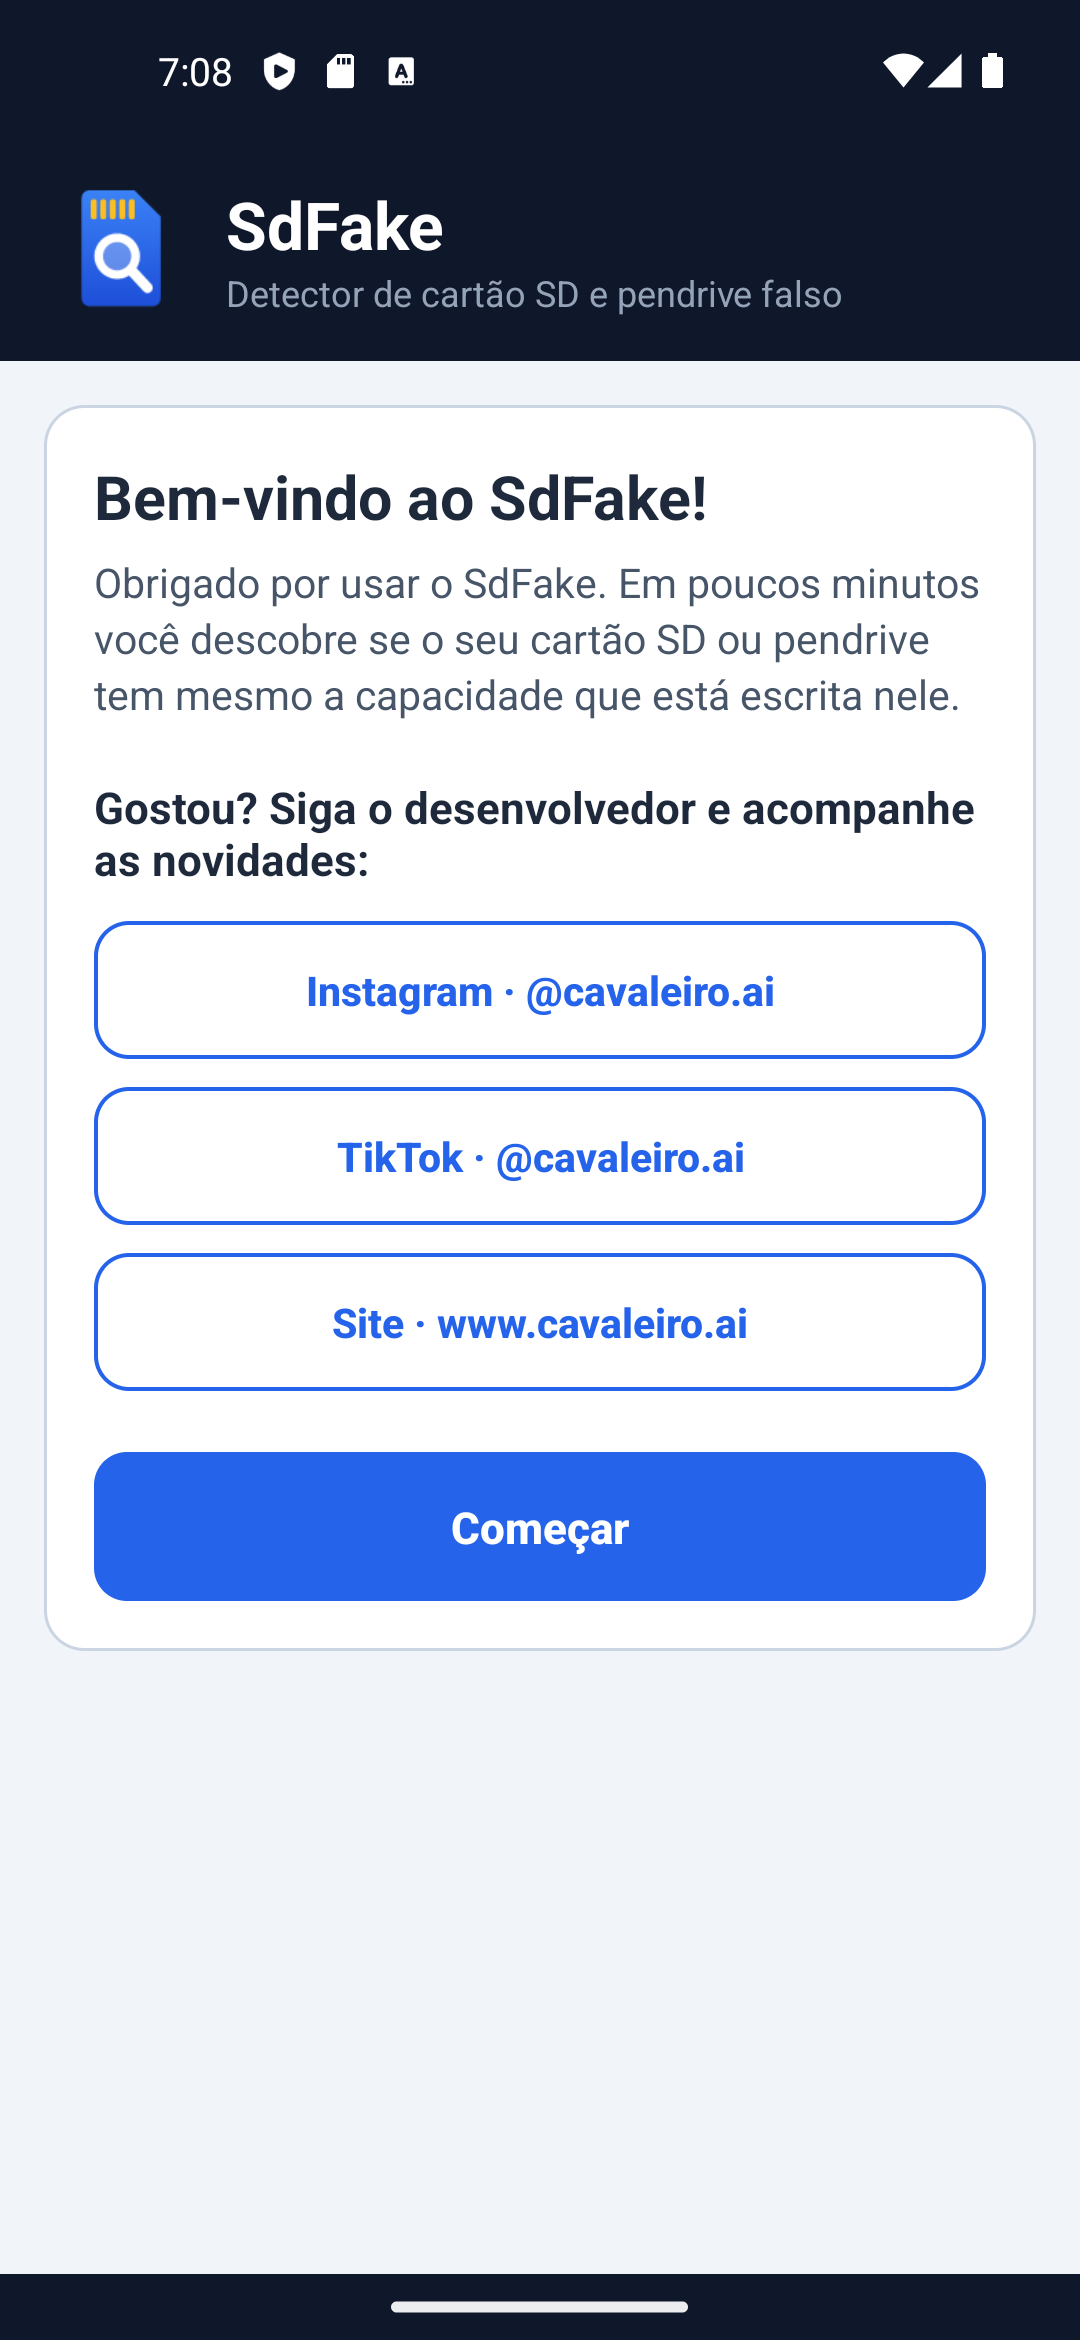
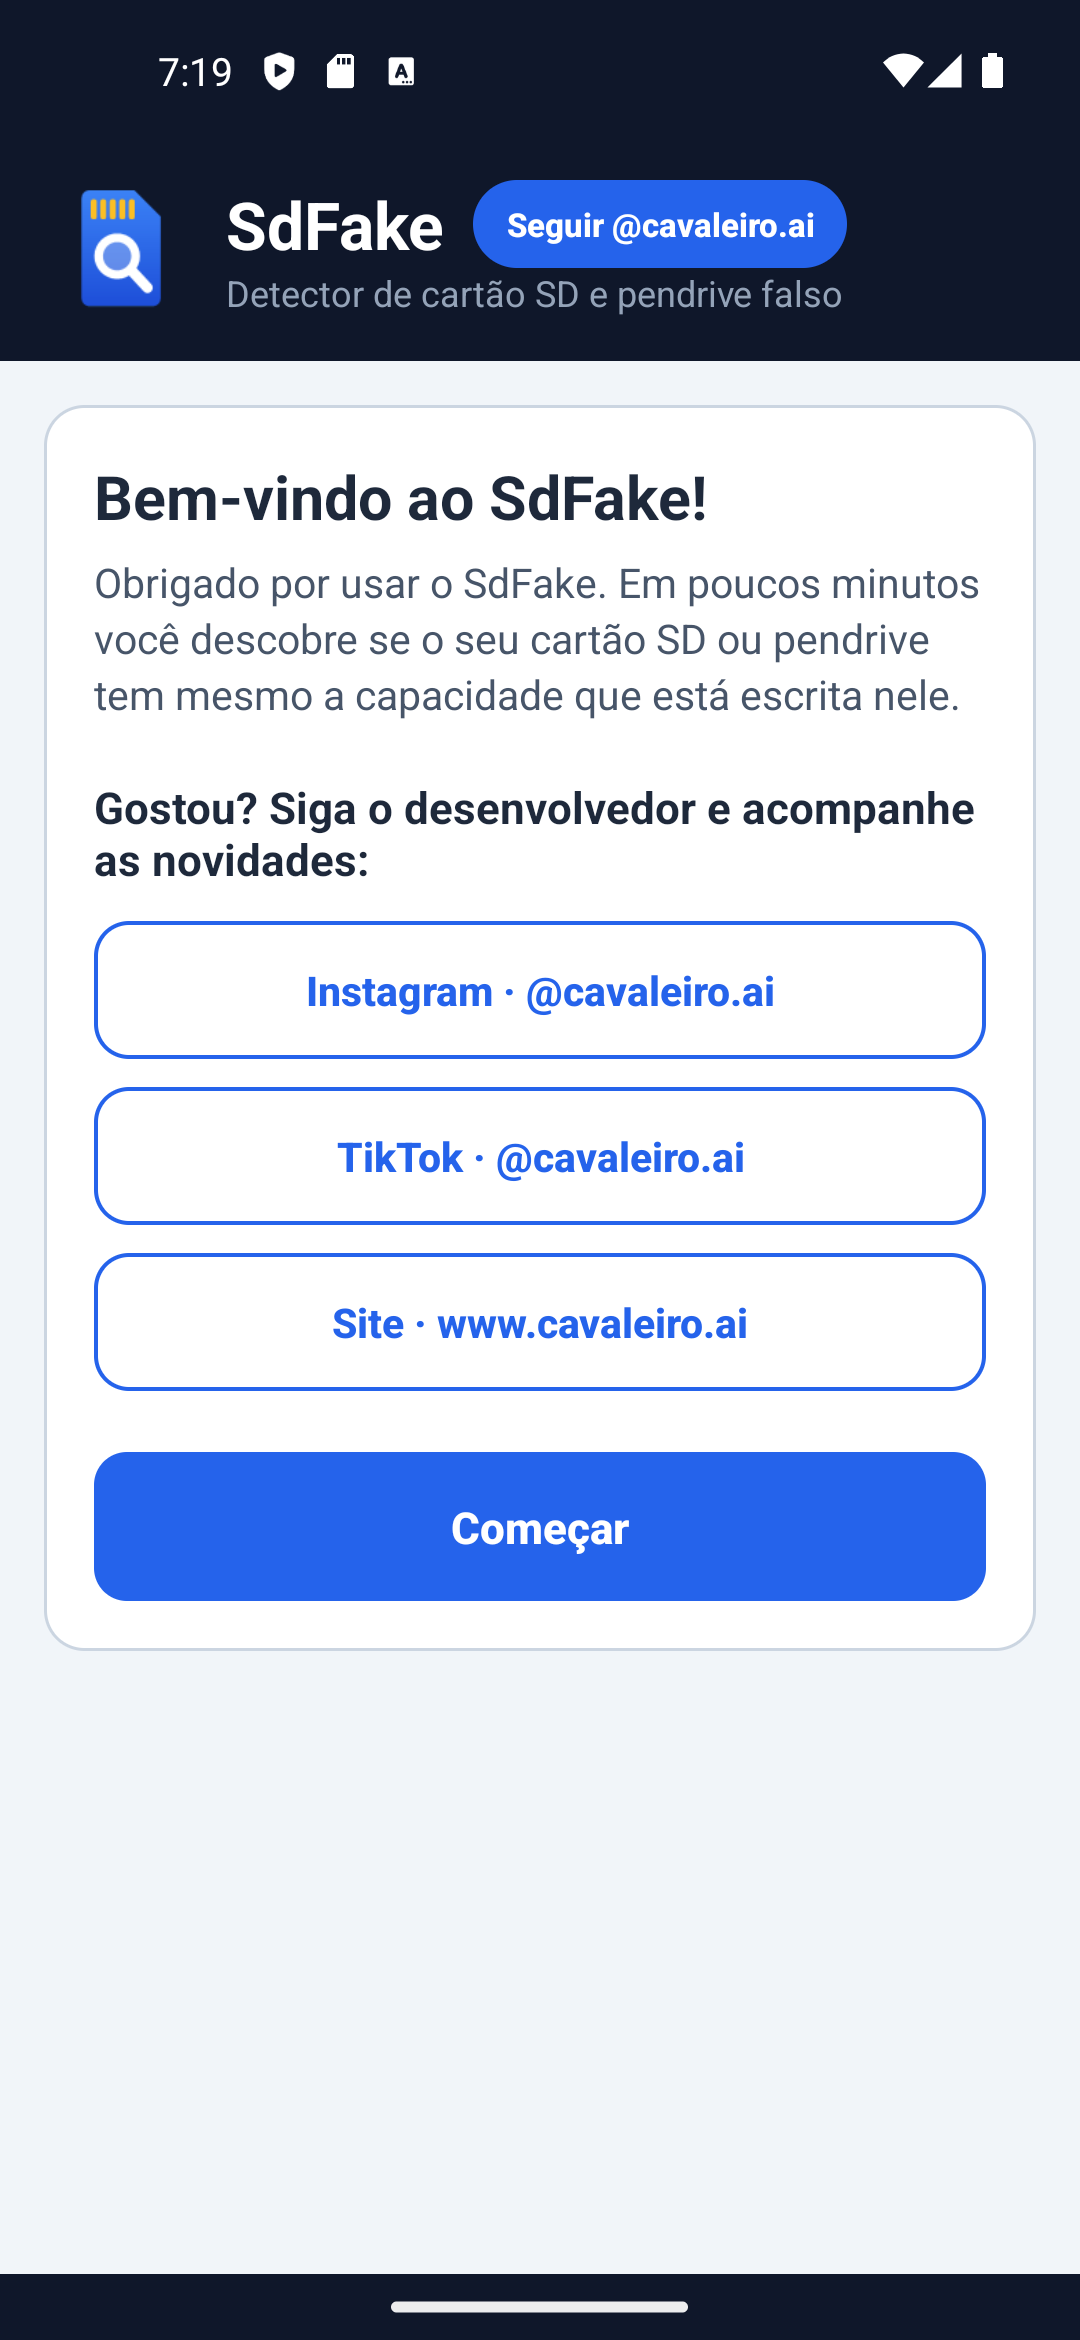
v1.0.1: botão Seguir @cavaleiro.ai ao lado do título (PC e Android)
- PC: botão em forma de pílula no cabeçalho da janela principal; abre um menu
  com Instagram, TikTok e site.
- Android: o mesmo botão no topo do app, com menu.
- Prints refeitos com o botão; novo print do menu aberto (pc-seguir, android-seguir).
- Versão 1.0.1 (versionCode 2).

Changed region(s): [[0.4278, 0.0624, 0.7944, 0.1248], [0.1833, 0.0, 0.2139, 0.0624]]

diff --git a/pc/src/MainForm.cs b/pc/src/MainForm.cs
@@ -142,16 +142,84 @@ namespace SdFake
         }
     }
 
+    /// <summary>Botao em forma de pilula mostrado no cabecalho, ao lado do titulo ("Seguir @cavaleiro.ai").</summary>
+    class FollowButton : Button
+    {
+        bool hover, down;
+
+        public FollowButton()
+        {
+            SetStyle(ControlStyles.UserPaint | ControlStyles.AllPaintingInWmPaint | ControlStyles.OptimizedDoubleBuffer | ControlStyles.ResizeRedraw, true);
+            Cursor = Cursors.Hand;
+            TabStop = false;
+        }
+
+        protected override void OnMouseEnter(EventArgs e) { hover = true; Invalidate(); base.OnMouseEnter(e); }
+        protected override void OnMouseLeave(EventArgs e) { hover = false; down = false; Invalidate(); base.OnMouseLeave(e); }
+        protected override void OnMouseDown(MouseEventArgs e) { down = true; Invalidate(); base.OnMouseDown(e); }
+        protected override void OnMouseUp(MouseEventArgs e) { down = false; Invalidate(); base.OnMouseUp(e); }
+
+        protected override void OnPaint(PaintEventArgs e)
+        {
+            Graphics g = e.Graphics;
+            g.SmoothingMode = SmoothingMode.AntiAlias;
+            g.Clear(Ui.Navy);
+            Color fill = down ? Color.FromArgb(29, 78, 216) : hover ? Color.FromArgb(59, 130, 246) : Ui.Blue;
+            using (GraphicsPath p = Ui.Rounded(new RectangleF(0.5f, 0.5f, Width - 1.5f, Height - 1.5f), (Height - 1.5f) / 2f))
+            using (SolidBrush b = new SolidBrush(fill))
+                g.FillPath(b, p);
+            using (Font f = new Font(Font, FontStyle.Bold))
+                TextRenderer.DrawText(g, Text, f, ClientRectangle, Color.White,
+                    TextFormatFlags.HorizontalCenter | TextFormatFlags.VerticalCenter | TextFormatFlags.NoPrefix);
+        }
+    }
+
     class Header : Control
     {
         public Image Logo;
         public string Title = "SdFake";
         public string Subtitle = "Descubra se o cartão SD ou pendrive tem mesmo a capacidade anunciada";
+        Control side;
+        Size sideSize;
 
         public Header()
         {
             SetStyle(ControlStyles.UserPaint | ControlStyles.AllPaintingInWmPaint | ControlStyles.OptimizedDoubleBuffer | ControlStyles.ResizeRedraw, true);
         }
+
+        // O cabecalho posiciona o proprio filho em pixels (PlaceSide), entao o Windows Forms nao deve escala-lo de novo.
+        protected override bool ScaleChildren { get { return false; } }
+
+        const float TitleSize = 19f;
+
+        int TitleLeft(float s)
+        {
+            return (int)(20 * s) + (Logo != null ? (int)(52 * s) + (int)(14 * s) : 0);
+        }
+
+        /// <summary>Coloca um controle logo depois do titulo (tamanho em pixels a 96 DPI).</summary>
+        public void SetSide(Control control, int width, int height)
+        {
+            side = control;
+            sideSize = new Size(width, height);
+            Controls.Add(control);
+            PlaceSide();
+        }
+
+        void PlaceSide()
+        {
+            if (side == null || Parent == null) return;
+            using (Graphics g = CreateGraphics())
+            using (Font tf = new Font(Font.FontFamily, TitleSize, FontStyle.Bold))
+            {
+                float s = g.DpiX / 96f;
+                int x = TitleLeft(s) + TextRenderer.MeasureText(g, Title, tf, Size.Empty, TextFormatFlags.NoPrefix).Width;
+                side.SetBounds(x + (int)(8 * s), (int)(17 * s), (int)(sideSize.Width * s), (int)(sideSize.Height * s));
+            }
+        }
+
+        protected override void OnResize(EventArgs e) { base.OnResize(e); PlaceSide(); }
+        protected override void OnFontChanged(EventArgs e) { base.OnFontChanged(e); PlaceSide(); }
 
         protected override void OnPaint(PaintEventArgs e)
         {
@@ -166,7 +234,7 @@ namespace SdFake
                 g.DrawImage(Logo, new Rectangle(x, (Height - size) / 2, size, size));
                 x += size + (int)(14 * s);
             }
-            using (Font tf = new Font(Font.FontFamily, 19f, FontStyle.Bold))
+            using (Font tf = new Font(Font.FontFamily, TitleSize, FontStyle.Bold))
                 TextRenderer.DrawText(g, Title, tf, new Point(x - (int)(3 * s), (int)(12 * s)), Color.White, TextFormatFlags.NoPrefix);
             using (Font sf = new Font(Font.FontFamily, 10.5f))
                 TextRenderer.DrawText(g, Subtitle, sf,
@@ -244,6 +312,17 @@ namespace SdFake
             }
             catch (Exception) { }
             Controls.Add(header);
+
+            // botao "Seguir" ao lado do titulo: abre um menu com Instagram, TikTok e site
+            FollowButton follow = new FollowButton();
+            follow.Text = "Seguir " + Developer.Handle;
+            follow.AccessibleName = follow.Text;
+            ContextMenuStrip followMenu = new ContextMenuStrip();
+            followMenu.Items.Add("Instagram  ·  " + Developer.Handle, null, delegate { Developer.Open(this, Developer.InstagramUrl); });
+            followMenu.Items.Add("TikTok  ·  " + Developer.Handle, null, delegate { Developer.Open(this, Developer.TikTokUrl); });
+            followMenu.Items.Add("Site  ·  " + Developer.SiteLabel, null, delegate { Developer.Open(this, Developer.SiteUrl); });
+            follow.Click += delegate { followMenu.Show(follow, new Point(0, follow.Height + 2)); };
+            header.SetSide(follow, 164, 26);
 
             MakeLabel("1.  Escolha o dispositivo", 20, 98, 400, 22, true, Ui.Ink);
             cbDrive = new ComboBox();

diff --git a/android/src/com/sdfake/app/MainActivity.java b/android/src/com/sdfake/app/MainActivity.java
@@ -17,10 +17,12 @@ import android.os.Looper;
 import android.os.storage.StorageManager;
 import android.os.storage.StorageVolume;
 import android.provider.DocumentsContract;
+import android.view.MenuItem;
 import android.view.View;
 import android.view.ViewGroup;
 import android.view.WindowManager;
 import android.widget.Button;
+import android.widget.PopupMenu;
 import android.widget.ProgressBar;
 import android.widget.TextView;
 import android.widget.Toast;
@@ -78,6 +80,7 @@ public final class MainActivity extends Activity {
         cancelButton = findViewById(R.id.cancel);
 
         setupWelcome();
+        setupFollow();
 
         findViewById(R.id.pick).setOnClickListener(new View.OnClickListener() {
             @Override
@@ -127,19 +130,44 @@ public final class MainActivity extends Activity {
         link(R.id.site, R.string.url_site);
     }
 
+    /** Botao "Seguir" no topo, ao lado do titulo: abre um menu com Instagram, TikTok e site. */
+    private void setupFollow() {
+        final int[] labels = {R.string.follow_instagram, R.string.follow_tiktok, R.string.follow_site};
+        final int[] urls = {R.string.url_instagram, R.string.url_tiktok, R.string.url_site};
+        findViewById(R.id.follow).setOnClickListener(new View.OnClickListener() {
+            @Override
+            public void onClick(View v) {
+                PopupMenu menu = new PopupMenu(MainActivity.this, v);
+                for (int i = 0; i < labels.length; i++) menu.getMenu().add(0, i, i, labels[i]);
+                menu.setOnMenuItemClickListener(new PopupMenu.OnMenuItemClickListener() {
+                    @Override
+                    public boolean onMenuItemClick(MenuItem item) {
+                        open(urls[item.getItemId()]);
+                        return true;
+                    }
+                });
+                menu.show();
+            }
+        });
+    }
+
     /** Botao que abre um endereco no app correspondente (Instagram, TikTok) ou no navegador. */
     private void link(int buttonId, final int urlId) {
         findViewById(buttonId).setOnClickListener(new View.OnClickListener() {
             @Override
             public void onClick(View v) {
-                String url = getString(urlId);
-                try {
-                    startActivity(new Intent(Intent.ACTION_VIEW, Uri.parse(url)));
-                } catch (ActivityNotFoundException e) {
-                    Toast.makeText(MainActivity.this, url, Toast.LENGTH_LONG).show();
-                }
+                open(urlId);
             }
         });
+    }
+
+    private void open(int urlId) {
+        String url = getString(urlId);
+        try {
+            startActivity(new Intent(Intent.ACTION_VIEW, Uri.parse(url)));
+        } catch (ActivityNotFoundException e) {
+            Toast.makeText(this, url, Toast.LENGTH_LONG).show();
+        }
     }
 
     @Override

diff --git a/tools/prints/Prints.cs b/tools/prints/Prints.cs
@@ -91,6 +91,51 @@ namespace SdFake
             Console.WriteLine("  " + name);
         }
 
+        /// <summary>
+        /// Clica no botao "Seguir" do cabecalho e fotografa a janela com o menu aberto. O menu e uma janela
+        /// a parte, entao aqui a captura e da tela (so o retangulo da janela, mantida na frente das outras).
+        /// </summary>
+        static void FollowMenu(DriveEntry d, string name)
+        {
+            MainForm f = Open(d);
+            f.TopMost = true;
+            f.Activate();
+            Pump(400);
+            Button follow = null;
+            foreach (Control c in f.Controls)
+                if (c is Header && c.Controls.Count > 0) follow = c.Controls[0] as Button;
+            if (follow == null) throw new Exception("botão Seguir não encontrado no cabeçalho");
+            follow.PerformClick();
+            Pump(600);
+            if (!AnyMenuOpen()) throw new Exception("o menu do botão Seguir não abriu");
+            RECT r;
+            GetWindowRect(f.Handle, out r);
+            using (Bitmap bmp = new Bitmap(r.R - r.L, r.B - r.T))
+            {
+                using (Graphics g = Graphics.FromImage(bmp)) g.CopyFromScreen(r.L, r.T, 0, 0, bmp.Size);
+                bmp.Save(Path.Combine(outDir, name), ImageFormat.Png);
+            }
+            Console.WriteLine("  " + name);
+            f.Close();
+        }
+
+        static bool AnyMenuOpen()
+        {
+            // ContextMenuStrip nao entra em Application.OpenForms: procura a janela de menu visivel desta thread
+            bool found = false;
+            EnumThreadWindows(GetCurrentThreadId(), delegate(IntPtr h, IntPtr l)
+            {
+                Control c = Control.FromHandle(h);
+                if (c is ToolStripDropDown && c.Visible) { found = true; return false; }
+                return true;
+            }, IntPtr.Zero);
+            return found;
+        }
+
+        delegate bool EnumProc(IntPtr h, IntPtr l);
+        [DllImport("user32.dll")] static extern bool EnumThreadWindows(uint thread, EnumProc proc, IntPtr l);
+        [DllImport("kernel32.dll")] static extern uint GetCurrentThreadId();
+
         static object Call(MainForm f, string method, params object[] args)
         {
             return typeof(MainForm).GetMethod(method, Any).Invoke(f, args);
@@ -204,6 +249,7 @@ namespace SdFake
                 MainForm start = Open(real64);
                 Shot(start, "pc-inicio.png");
                 start.Close();
+                FollowMenu(real64, "pc-seguir.png");
                 Quick(real64, new SimDevice { Declared = 63864569856L, Real = 63864569856L, Mode = SimMode.Genuine }, null, "pc-verdadeiro.png");
 
                 // cartao falso como chega do vendedor: formatado com os "128 GB" que anuncia

diff --git a/pc/src/WelcomeForm.cs b/pc/src/WelcomeForm.cs
@@ -14,6 +14,22 @@ namespace SdFake
         public const string TikTokUrl = "https://www.tiktok.com/@cavaleiro.ai";
         public const string SiteLabel = "www.cavaleiro.ai";
         public const string SiteUrl = "https://www.cavaleiro.ai";
+
+        /// <summary>Abre o endereco no navegador padrao.</summary>
+        public static void Open(IWin32Window owner, string url)
+        {
+            try
+            {
+                ProcessStartInfo psi = new ProcessStartInfo(url);
+                psi.UseShellExecute = true;
+                Process.Start(psi);
+            }
+            catch (Exception)
+            {
+                MessageBox.Show(owner, "Não foi possível abrir o navegador. Endereço:\n\n" + url, "SdFake",
+                    MessageBoxButtons.OK, MessageBoxIcon.Information);
+            }
+        }
     }
 
     public class WelcomeForm : Form
@@ -91,24 +107,8 @@ namespace SdFake
             b.Accent = accent;
             b.Cursor = Cursors.Hand;
             b.SetBounds(24, top, 472, 64);
-            b.Click += delegate { Open(url); };
+            b.Click += delegate { Developer.Open(this, url); };
             Controls.Add(b);
-        }
-
-        /// <summary>Abre o endereco no navegador padrao.</summary>
-        void Open(string url)
-        {
-            try
-            {
-                ProcessStartInfo psi = new ProcessStartInfo(url);
-                psi.UseShellExecute = true;
-                Process.Start(psi);
-            }
-            catch (Exception)
-            {
-                MessageBox.Show(this, "Não foi possível abrir o navegador. Endereço:\n\n" + url, "SdFake",
-                    MessageBoxButtons.OK, MessageBoxIcon.Information);
-            }
         }
     }
 }

diff --git a/pc/installer/Setup.cs b/pc/installer/Setup.cs
@@ -49,7 +49,7 @@ namespace SdFakeSetup
 
     static class Installer
     {
-        public const string Version = "1.0.0";
+        public const string Version = "1.0.1";
         const string RegKey = @"Software\Microsoft\Windows\CurrentVersion\Uninstall\SdFake";
 
         public static void Install(Paths p, bool desktopShortcut)

diff --git a/pc/installer/AssemblyInfo.cs b/pc/installer/AssemblyInfo.cs
@@ -5,5 +5,5 @@ using System.Reflection;
 [assembly: AssemblyProduct("SdFake")]
 [assembly: AssemblyCompany("SdFake")]
 [assembly: AssemblyCopyright("")]
-[assembly: AssemblyVersion("1.0.0.0")]
-[assembly: AssemblyFileVersion("1.0.0.0")]
+[assembly: AssemblyVersion("1.0.1.0")]
+[assembly: AssemblyFileVersion("1.0.1.0")]

diff --git a/pc/src/AssemblyInfo.cs b/pc/src/AssemblyInfo.cs
@@ -5,5 +5,5 @@ using System.Reflection;
 [assembly: AssemblyProduct("SdFake")]
 [assembly: AssemblyCompany("SdFake")]
 [assembly: AssemblyCopyright("")]
-[assembly: AssemblyVersion("1.0.0.0")]
-[assembly: AssemblyFileVersion("1.0.0.0")]
+[assembly: AssemblyVersion("1.0.1.0")]
+[assembly: AssemblyFileVersion("1.0.1.0")]

diff --git a/android/build_apk.py b/android/build_apk.py
@@ -17,8 +17,8 @@ import zipfile
 from pathlib import Path
 
 APP_ID = "com.sdfake.app"
-VERSION_CODE = "1"
-VERSION_NAME = "1.0.0"
+VERSION_CODE = "2"
+VERSION_NAME = "1.0.1"
 MIN_SDK = "24"
 TARGET_SDK = "35"
 

diff --git a/docs/DESENVOLVIMENTO.md b/docs/DESENVOLVIMENTO.md
@@ -127,7 +127,8 @@ powershell -ExecutionPolicy Bypass -File tools\prints.ps1
 Gera os arquivos `docs\telas\pc-*.png` em cerca de 1 minuto. O script compila
 `tools\prints\Prints.cs` junto com o código do programa, abre as janelas reais e roda os motores
 reais contra cartões **simulados**. Só a lista de dispositivos é trocada por um cartão de exemplo;
-nenhum disco é lido ou gravado. Os números do cartão falso são os de um caso real (anuncia
+nenhum disco é lido ou gravado. O print `pc-seguir.png` (menu do botão Seguir aberto) é uma captura
+da tela, então deixe a janela do programa visível enquanto o script roda. Os números do cartão falso são os de um caso real (anuncia
 133,3 GB, guarda 252 MB).
 
 Os prints `android-*.png` são capturas do app no emulador (`python tools/emu/ui.py shot arquivo.png`).
@@ -150,15 +151,18 @@ Os ícones do programa e do app são desenhados por `tools\make-icons.ps1`.
 | `tools` | Gerador de ícones, gerador de prints, teste da janela e utilitários do emulador |
 | `docs` | Documentação e prints |
 
-## Trocar os endereços da tela de boas-vindas
+## Trocar os endereços do desenvolvedor
+
+Os mesmos endereços aparecem na tela de boas-vindas e no botão **Seguir** do topo.
 
 - PC: classe `Developer` em `pc/src/WelcomeForm.cs`.
 - Android: `follow_*` e `url_*` em `android/res/values/strings.xml`.
 
 ## Publicar uma versão
 
-1. Atualize a versão em `pc/src/AssemblyInfo.cs`, `pc/installer/AssemblyInfo.cs` e
-   `android/build_apk.py` (`VERSION_NAME` e `VERSION_CODE`, que precisa aumentar a cada versão).
+1. Atualize a versão em `pc/src/AssemblyInfo.cs`, `pc/installer/AssemblyInfo.cs`,
+   `pc/installer/Setup.cs` (constante `Version`) e `android/build_apk.py` (`VERSION_NAME` e
+   `VERSION_CODE`, que precisa aumentar a cada versão).
 2. Anote as mudanças em `CHANGELOG.md`.
 3. Compile os dois lados com os autotestes.
 4. Publique os três arquivos de `Instaladores\`:

diff --git a/docs/COMO-USAR.md b/docs/COMO-USAR.md
@@ -92,6 +92,16 @@ O SdFake percebe a diferença entre o tamanho formatado e o que o dispositivo an
   <img src="telas/pc-nao-confirmado.png" width="480" alt="Resultado NÃO CONFIRMADO">
 </p>
 
+### Botão Seguir
+
+No topo da janela, ao lado do título, o botão **Seguir @cavaleiro.ai** abre um menu com o
+Instagram, o TikTok e o site do desenvolvedor. O mesmo botão existe no app Android.
+
+<p align="center">
+  <img src="telas/pc-seguir.png" width="440" alt="Botão Seguir com o menu aberto">
+  <img src="telas/android-seguir.png" width="200" alt="Botão Seguir no app Android">
+</p>
+
 ### HD e SSD externos
 
 Discos USB externos aparecem na lista, marcados como "disco USB externo". Eles nunca vêm
@@ -191,5 +201,5 @@ pendrive OTG.
 Não. Só Windows 10/11 e Android 7.0 ou mais novo.
 
 **O programa manda algum dado para a internet?**
-Não. Ele não se conecta a nada. Os botões da tela de boas-vindas apenas abrem o Instagram, o
-TikTok e o site no seu navegador, se você clicar.
+Não. Ele não se conecta a nada. Os botões da tela de boas-vindas e o botão Seguir apenas abrem o
+Instagram, o TikTok e o site no seu navegador, se você clicar.

diff --git a/CHANGELOG.md b/CHANGELOG.md
@@ -1,5 +1,10 @@
 # Histórico de versões
 
+## 1.0.1 — 14/11/2026
+
+- Botão **Seguir @cavaleiro.ai** no topo, ao lado do título, no programa de PC e no app Android.
+  Abre um menu com Instagram, TikTok e site.
+
 ## 1.0.0 — 14/11/2026
 
 Primeira versão pública.
